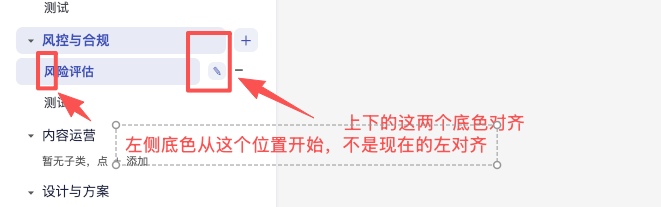
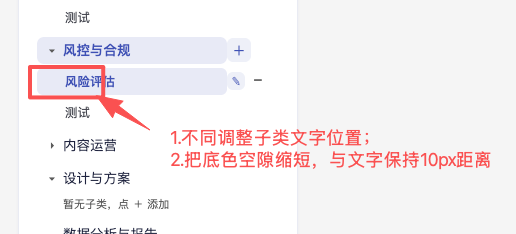
fix(web): 子类用 margin-left 缩进，底色宽度与 domain 一致
- 子类缩进从按钮 padding 改为 sub-list margin-left:18px
- 子类行宽度与 domain 行相同（flex:1 + 52px）
- 选中底色右边界对齐

diff --git a/frontend/app/globals.css b/frontend/app/globals.css
@@ -1175,12 +1175,13 @@ a { color: var(--color-accent-text); text-decoration: none; }
 }
 .scenario-sub-row:hover { background: #f5f6fa; }
 
+.scenario-sub-list { margin-left: 18px; }
 .scenario-sub-row { display: flex; align-items: center; padding: 2px 4px; border-radius: 7px; }
 .scenario-sub-row:hover { background: #f5f6fa; }
 .scenario-sub-btn {
   flex: 1; background: none; border: none; cursor: pointer;
   font-size: 12.5px; color: #44464f; text-align: left;
-  padding: 5px 6px 5px 28px; border-radius: 6px;
+  padding: 5px 6px; border-radius: 6px;
   overflow: hidden; text-overflow: ellipsis; white-space: nowrap;
 }
 .scenario-sub-btn.on { background: var(--color-primary-subtle); color: var(--color-primary); font-weight: 600; }